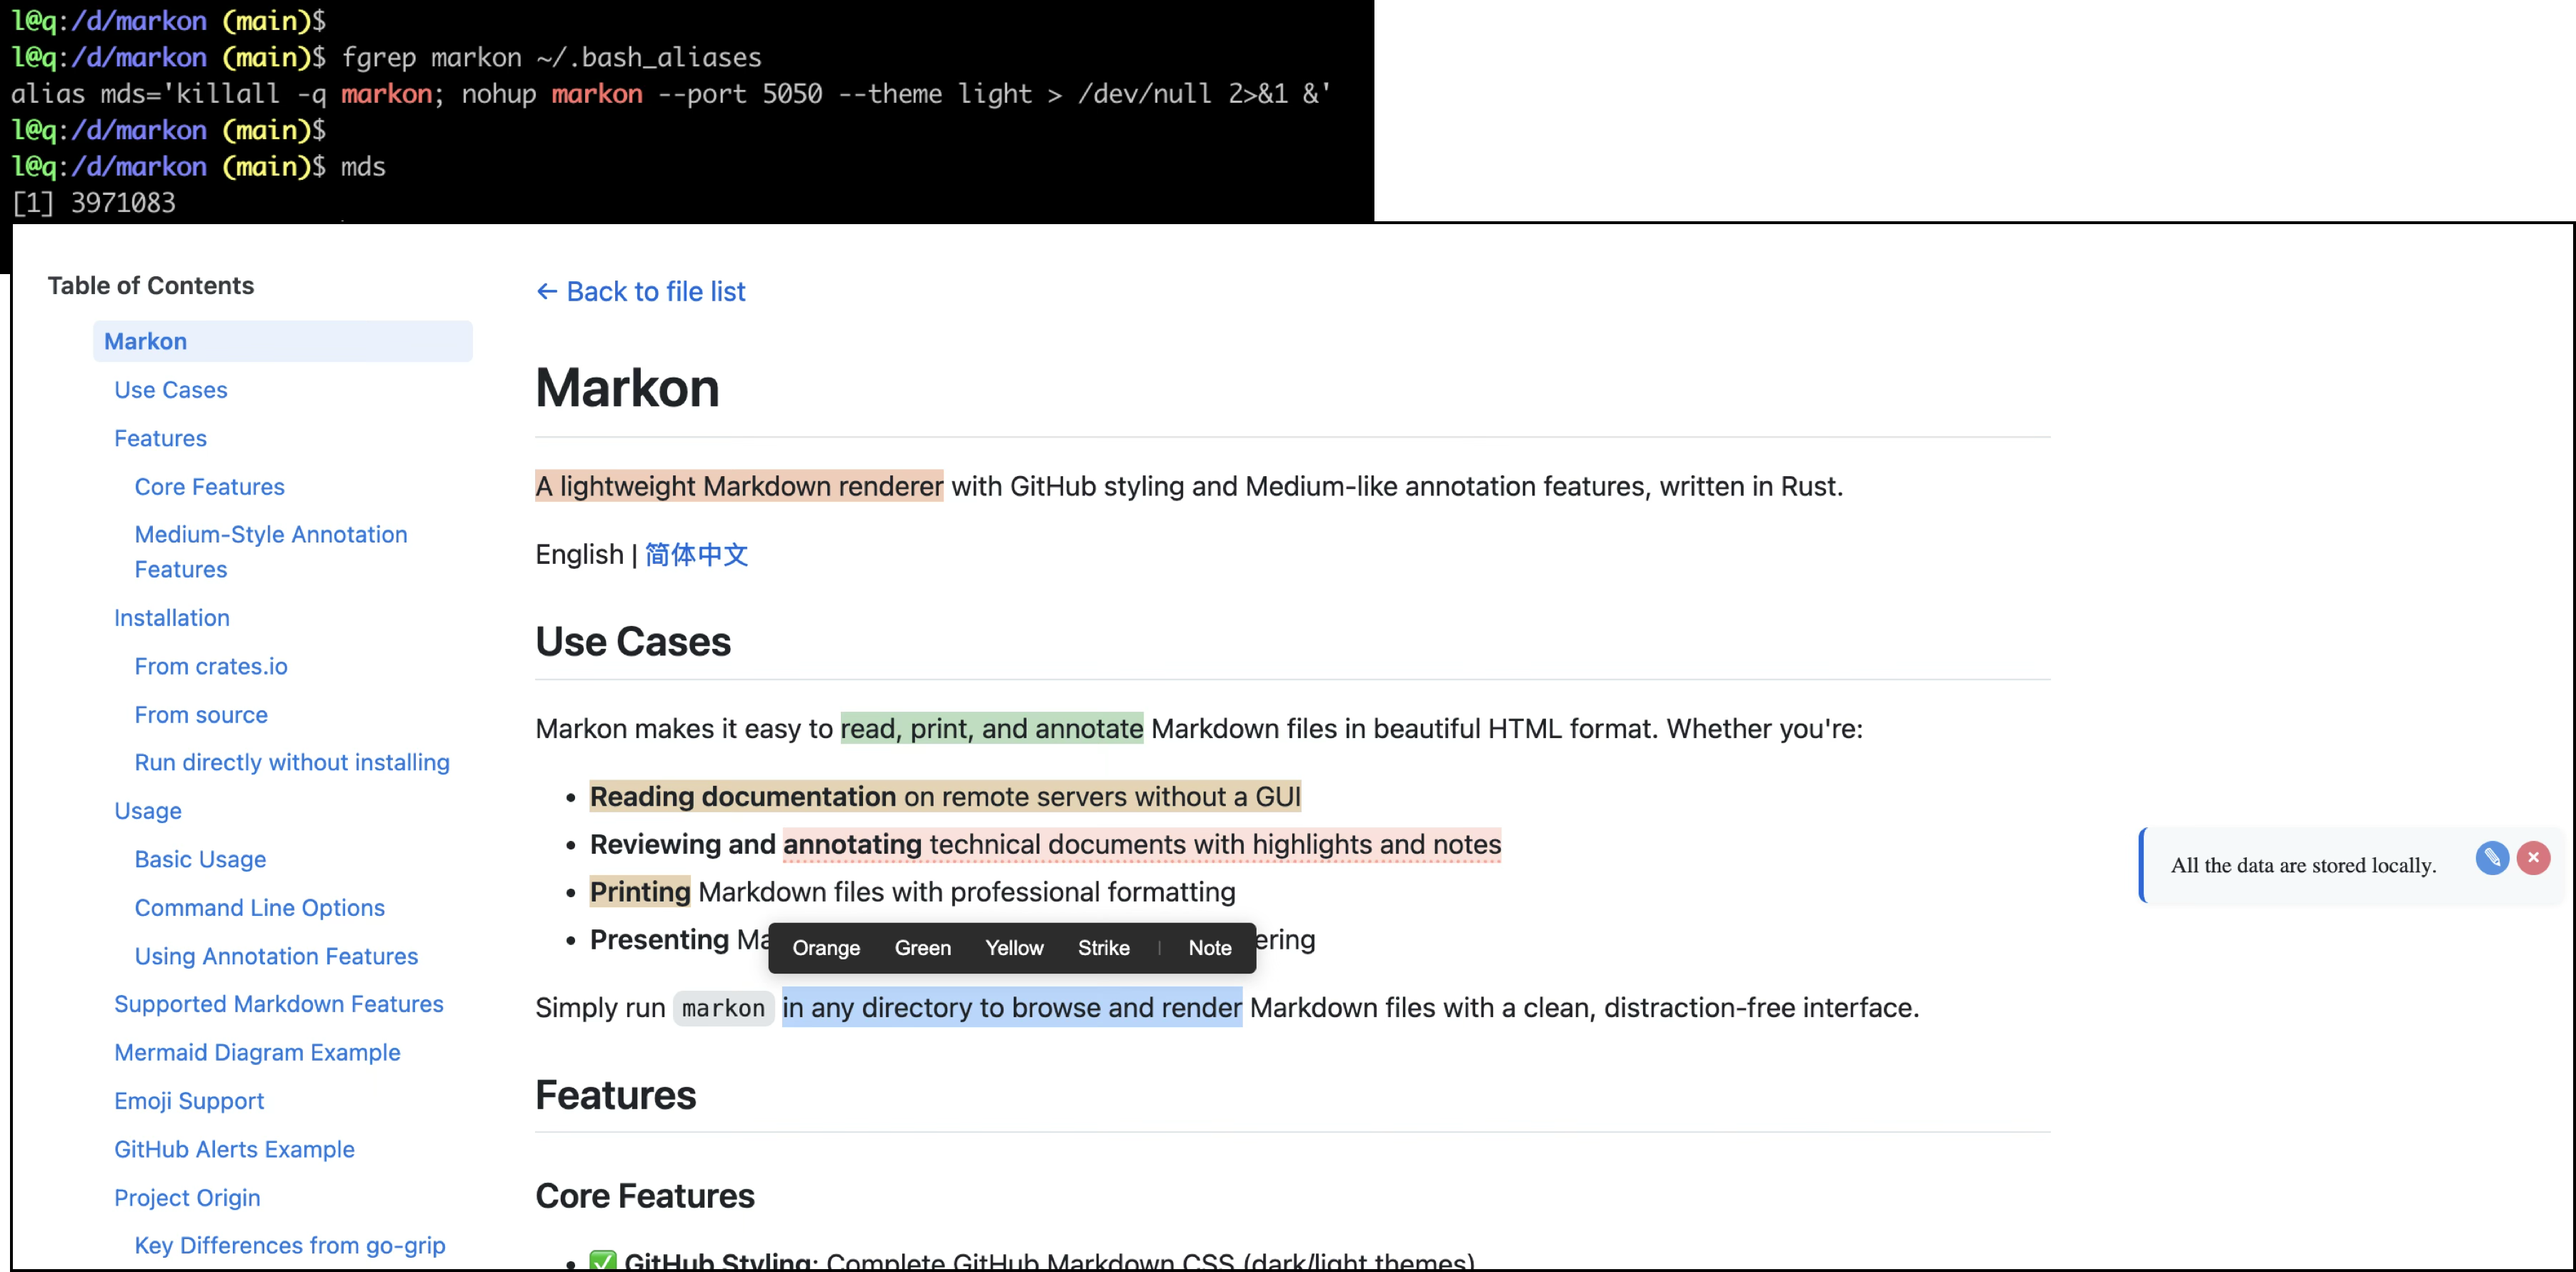
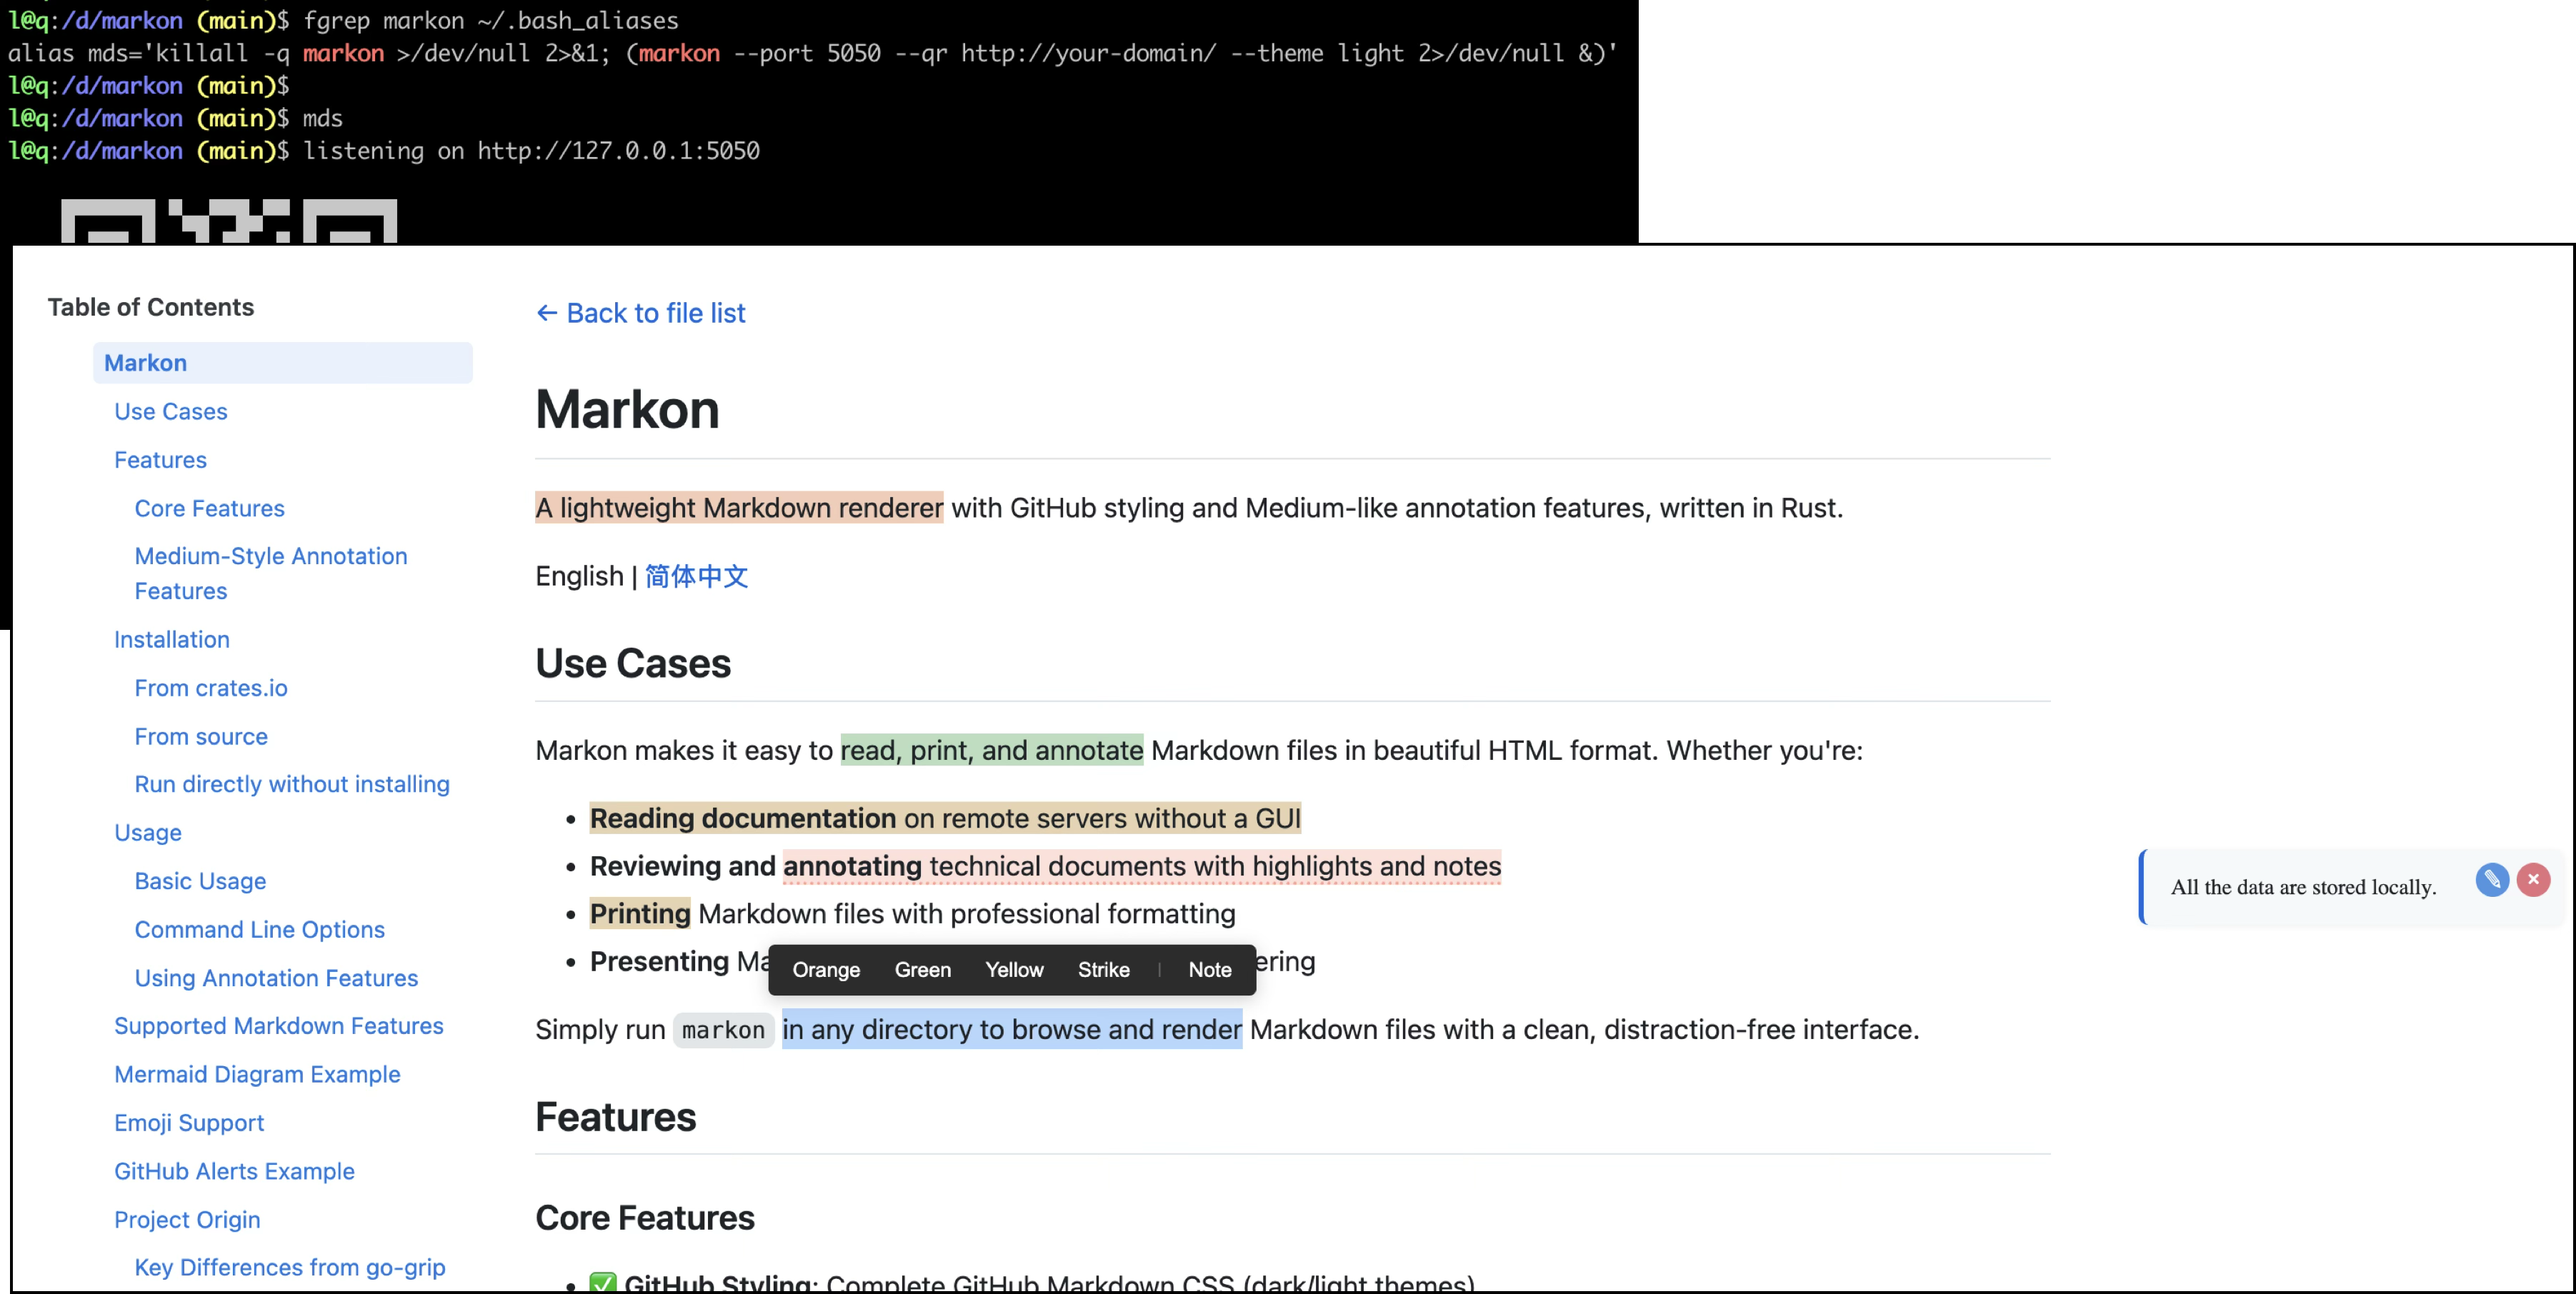
Improve QR code display and add browser auto-open
- Move QR code generation after successful port binding
- Replace qr2term with custom compact QR renderer
- Add --open-browser option for automatic browser launch
- Refine QR code output spacing and formatting

diff --git a/src/server.rs b/src/server.rs
@@ -5,6 +5,8 @@ use axum::{
     routing::get,
     Router,
 };
+use qrcode::render::unicode::Dense1x2;
+use qrcode::{EcLevel, QrCode};
 use std::fs;
 use std::net::SocketAddr;
 use std::sync::Arc;
@@ -14,6 +16,30 @@ use tokio::net::TcpListener;
 use crate::assets::{CssAssets, JsAssets, Templates};
 use crate::markdown::MarkdownRenderer;
 
+/// Print a compact QR code using Unicode half-blocks
+fn print_compact_qr(data: &str) -> Result<(), Box<dyn std::error::Error>> {
+    // Use low error correction level for smaller QR codes
+    let code = QrCode::with_error_correction_level(data.as_bytes(), EcLevel::L)?;
+
+    // Render using Dense1x2 (Unicode half-blocks: ▀▄█) for compact display
+    // Dense1x2 uses 2 vertical pixels per character (half-block characters)
+    // This naturally compensates for terminal fonts where character height > width
+    // Note: The aspect ratio depends on the terminal font - it won't be perfect square
+    // on all terminals, but Dense1x2 provides the best balance between size and readability
+    let string = code
+        .render::<Dense1x2>()
+        .quiet_zone(false) // No quiet zone to save space
+        .build();
+
+    // Add spacing: 4 spaces on the left, blank line below
+    for line in string.lines() {
+        println!("    {line}"); // 4 spaces on the left
+    }
+    println!(); // Blank line below
+
+    Ok(())
+}
+
 #[derive(Clone)]
 struct AppState {
     file_path: Arc<Option<String>>,
@@ -22,7 +48,13 @@ struct AppState {
     start_dir: Arc<std::path::PathBuf>,
 }
 
-pub async fn start(port: u16, file_path: Option<String>, theme: String, qr: Option<String>) {
+pub async fn start(
+    port: u16,
+    file_path: Option<String>,
+    theme: String,
+    qr: Option<String>,
+    open_browser: Option<String>,
+) {
     // Initialize Tera template engine
     let mut tera = Tera::default();
 
@@ -61,14 +93,6 @@ pub async fn start(port: u16, file_path: Option<String>, theme: String, qr: Opti
         .with_state(state);
 
     let addr = SocketAddr::from(([127, 0, 0, 1], port));
-    if let Some(qr_option) = qr {
-        let qr_url = if qr_option == "missing" {
-            format!("http://{}", addr)
-        } else {
-            qr_option
-        };
-        qr2term::print_qr(&qr_url).unwrap();
-    }
     let listener = match TcpListener::bind(&addr).await {
         Ok(listener) => listener,
         Err(e) => {
@@ -77,6 +101,31 @@ pub async fn start(port: u16, file_path: Option<String>, theme: String, qr: Opti
         }
     };
     println!("listening on http://{addr}");
+
+    // Generate QR code after successful bind
+    if let Some(qr_option) = qr {
+        println!(); // Blank line before QR code
+        let qr_url = if qr_option == "missing" {
+            format!("http://{addr}")
+        } else {
+            qr_option
+        };
+        if let Err(e) = print_compact_qr(&qr_url) {
+            eprintln!("Failed to generate QR code: {e}");
+        }
+    }
+
+    // Open browser if requested
+    if let Some(base_url_option) = open_browser {
+        let url = if base_url_option == "local" {
+            format!("http://{addr}")
+        } else {
+            base_url_option
+        };
+        if let Err(e) = open::that(&url) {
+            eprintln!("Failed to open browser: {e}");
+        }
+    }
 
     if let Err(e) = axum::serve(listener, app.into_make_service()).await {
         eprintln!("Server error: {e}");

diff --git a/src/main.rs b/src/main.rs
@@ -20,9 +20,15 @@ struct Cli {
     #[arg(short = 't', long, default_value = "auto")]
     theme: String,
 
-    /// Output the QR code of the server address.
-    #[arg(long, value_name = "URL", action = clap::ArgAction::Set, num_args = 0..=1, default_missing_value = "missing")]
+    /// Generate QR code for server address.
+    /// Optionally specify a base URL (e.g., http://192.168.1.100:6419) to override the default local address.
+    #[arg(long, value_name = "BASE_URL", action = clap::ArgAction::Set, num_args = 0..=1, default_missing_value = "missing")]
     qr: Option<String>,
+
+    /// Automatically open browser after starting the server.
+    /// Optionally specify a base URL (e.g., http://example.com:8080) to override the default local address.
+    #[arg(short = 'b', long, value_name = "BASE_URL", action = clap::ArgAction::Set, num_args = 0..=1, default_missing_value = "local")]
+    open_browser: Option<String>,
 }
 
 #[tokio::main]
@@ -48,5 +54,5 @@ async fn main() {
         None
     };
 
-    server::start(cli.port, file_to_render, theme, cli.qr).await;
+    server::start(cli.port, file_to_render, theme, cli.qr, cli.open_browser).await;
 }

diff --git a/README.md b/README.md
@@ -90,12 +90,60 @@ markon -t auto README.md
 
 ```
 Options:
-  [FILE]                    Markdown file to render (optional)
-  -p, --port <PORT>         Server port [default: 6419]
-  -t, --theme <THEME>       Theme: light, dark, auto [default: auto]
-  -h, --help                Show help information
-  -V, --version             Show version information
+  [FILE]                       Markdown file to render (optional)
+  -p, --port <PORT>            Server port [default: 6419]
+  -t, --theme <THEME>          Theme: light, dark, auto [default: auto]
+      --qr [<URL>]             Generate QR code for server address
+                               Optionally specify a custom URL to encode
+  -b, --open-browser [<BASE_URL>]
+                               Automatically open browser after starting
+                               Optionally specify a base URL (e.g., when using reverse proxy)
+  -h, --help                   Show help information
+  -V, --version                Show version information
 ```
+
+### Advanced Usage Examples
+
+```bash
+# Generate QR code for easy mobile access (uses local address)
+markon --qr
+
+# Generate QR code with custom URL (e.g., when using port forwarding or public IP)
+markon --qr http://192.168.1.100:6419
+
+# Auto-open browser after starting (opens local address)
+markon -b
+
+# Auto-open with custom base URL (useful when behind reverse proxy)
+# Server listens on localhost:6419, but accessible via proxy at example.com
+markon -b http://example.com
+
+# Combine options: QR code + auto-open + dark theme
+markon --qr -b -t dark README.md
+
+# Complete example: Custom port, QR for public IP, auto-open local browser
+markon -p 8080 --qr http://203.0.113.1:8080 -b
+```
+
+**Understanding URL Parameters**:
+
+Both `--qr` and `-b` options accept optional URL arguments:
+
+**QR Code (`--qr` option)**:
+- Without argument (`--qr`): Generates QR code for `http://127.0.0.1:6419` (local address)
+- With base URL (`--qr <BASE_URL>`): Generates QR code for the specified URL
+- Use cases:
+  - **Port forwarding**: `--qr http://192.168.1.100:6419` (LAN IP)
+  - **Public access**: `--qr http://example.com/docs` (public domain)
+  - **Mobile access**: `--qr http://your-laptop-ip:6419` (for phones on same network)
+
+**Open Browser (`-b` option)**:
+- Without argument (`-b`): Opens `http://127.0.0.1:6419` (local address)
+- With base URL (`-b <BASE_URL>`): Opens the specified URL instead
+- Use cases:
+  - **Reverse proxy**: Server on `localhost:6419`, proxy at `https://docs.example.com`
+  - **SSH tunnel**: Remote server tunneled to `http://localhost:8080`
+  - **Custom routing**: Any URL that points to your running server instance
 
 ### Using Annotation Features
 
@@ -197,7 +245,8 @@ This project is a Rust port of [go-grip](https://github.com/kookyleo/go-grip) wi
 | Emoji | Custom mapping | Unicode (emojis crate) |
 | Medium Annotations | ❌ | ✅ |
 | Hot Reload | ✅ | ❌ |
-| Auto Browser Open | ✅ | ❌ |
+| Auto Browser Open | ✅ | ✅ |
+| QR Code Generation | ❌ | ✅ |
 | Print Optimization | ✅ | ✅ |
 
 ## Tech Stack
